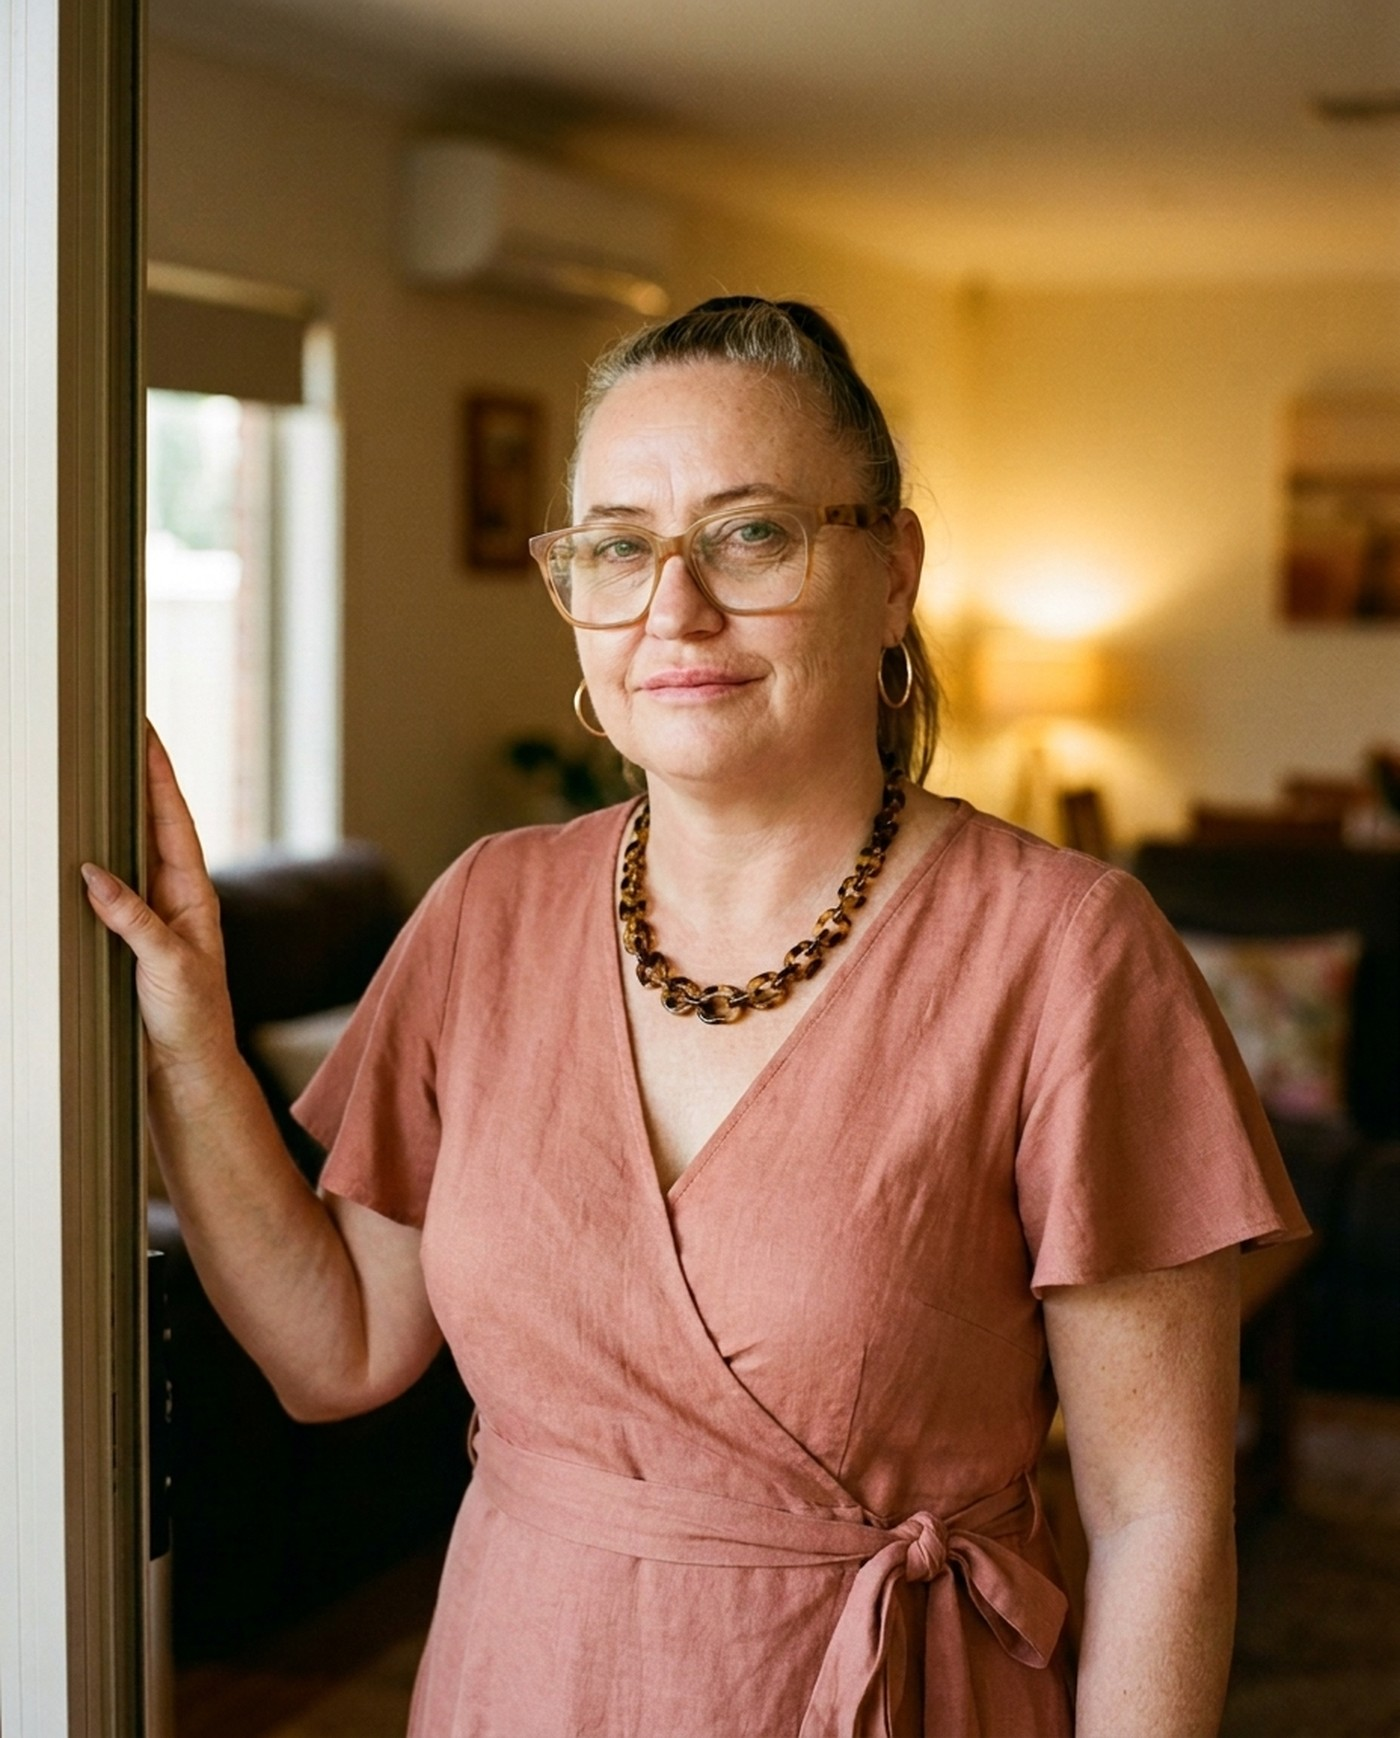
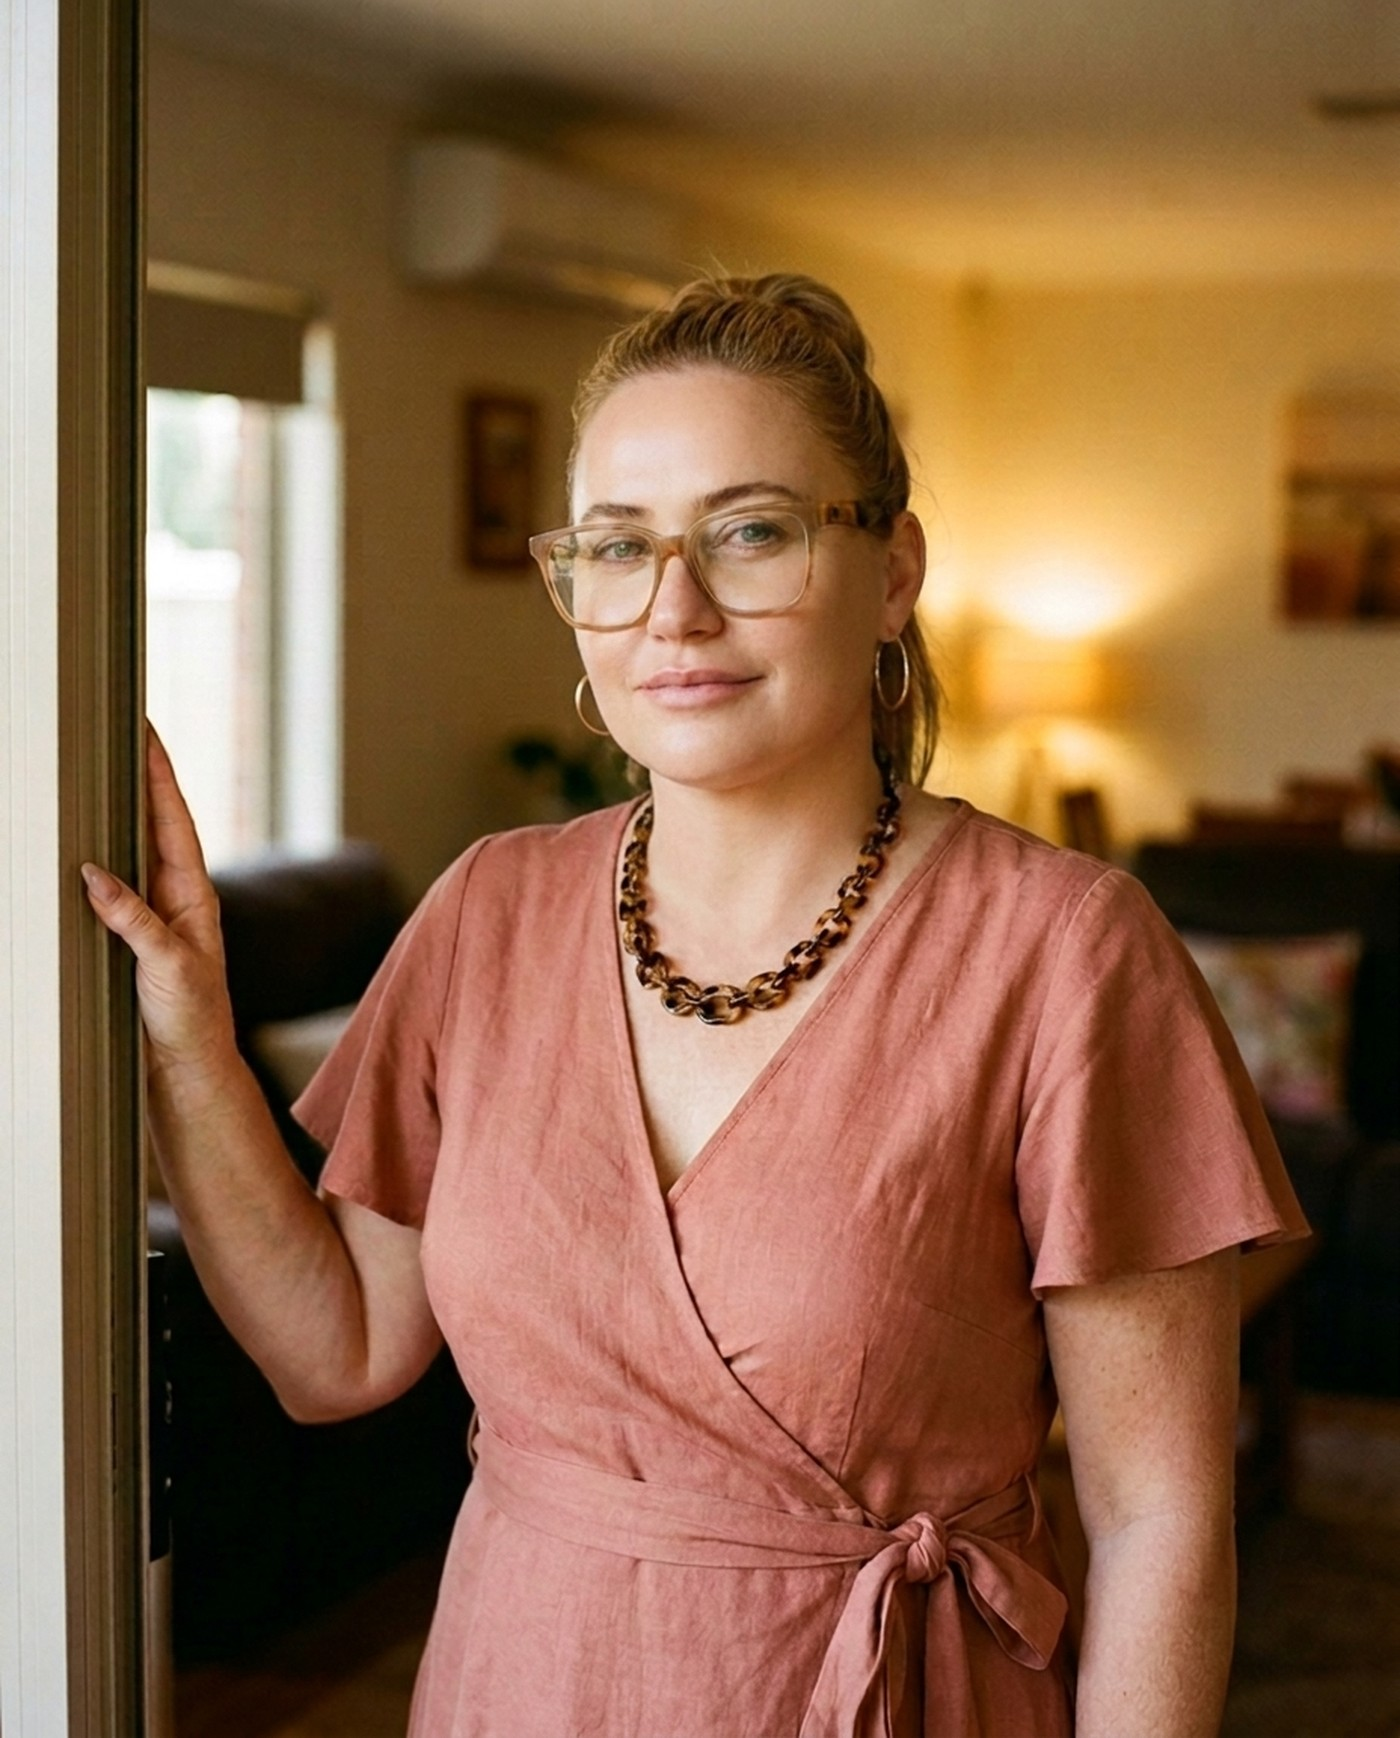
The story portrait gets the age the story has, and its statement goes green
The doorway portrait sits inside Victoria's account of when her kids were
young, so she now looks it: mid thirties, honey blonde, no grey, same
doorway, dress, glasses and necklace. And the big thin statement that
opens her story is set in the forest green.

diff --git a/site/index.html b/site/index.html
@@ -316,7 +316,7 @@ section{position:relative}
   align-items:start;padding-top:1.5rem;border-top:1px solid var(--rule)}
 .story-text{display:flex;flex-direction:column;gap:1.15rem;max-width:44ch}
 .story-text p{color:var(--muted)}
-.story-text .big{font-size:clamp(1.5rem,3.2vw,2.5rem);line-height:1.15;color:var(--ink);
+.story-text .big{font-size:clamp(1.5rem,3.2vw,2.5rem);line-height:1.15;color:var(--forest);
   font-family:var(--cond);font-weight:200;letter-spacing:-.02em;max-width:20ch}
 .sig{font-family:var(--cond);font-size:.8125rem;letter-spacing:.16em;text-transform:uppercase;
   color:var(--ink)!important;margin-top:.6rem;padding-top:1rem;border-top:1px solid var(--rule)}
